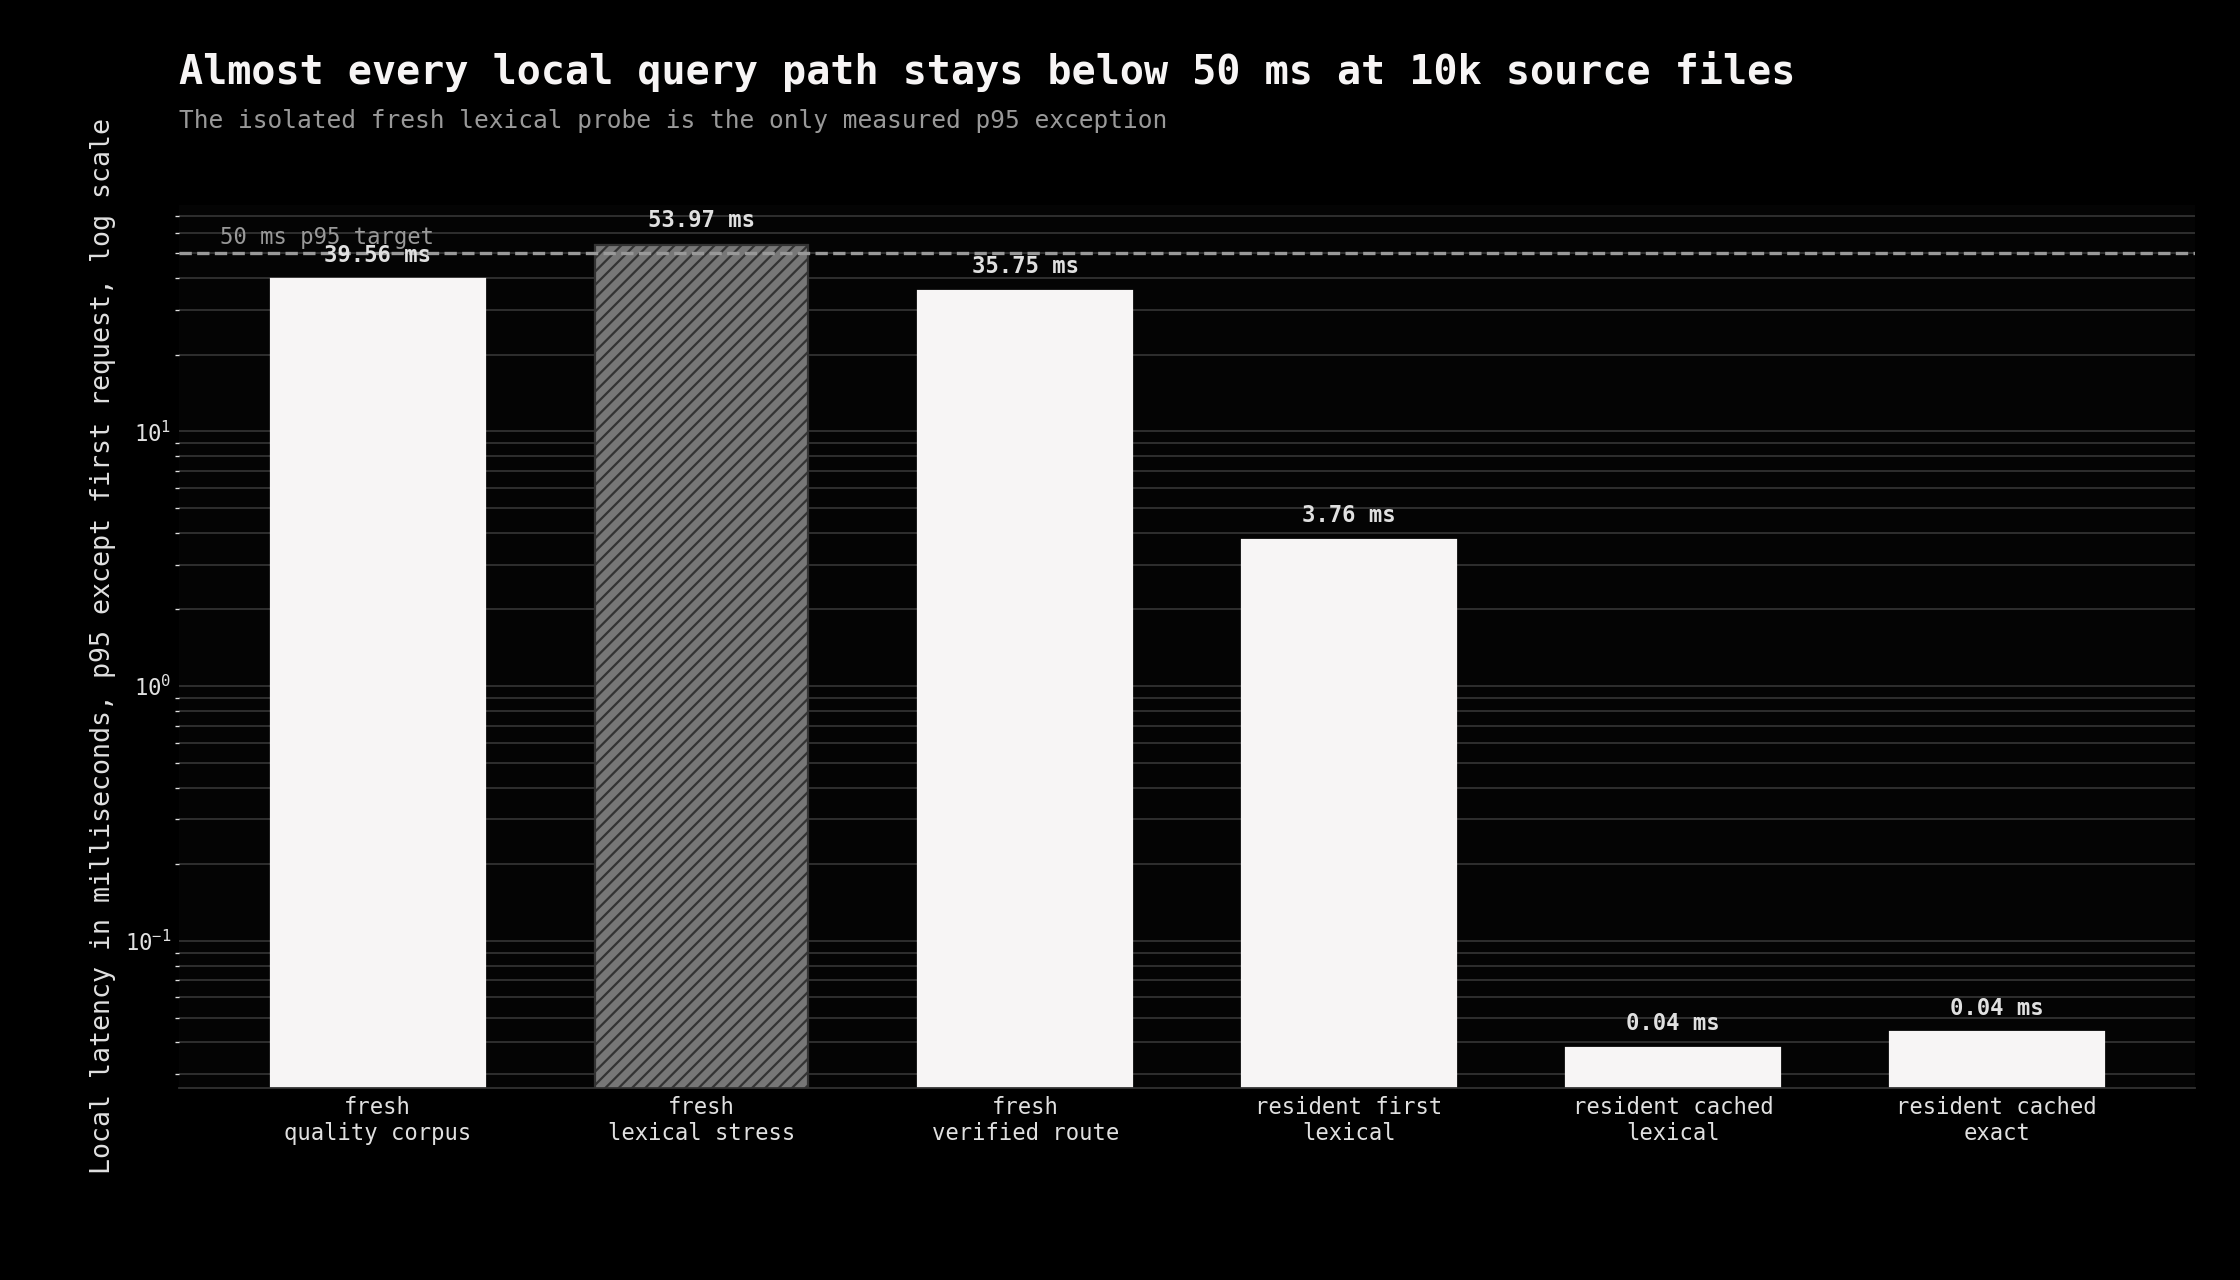
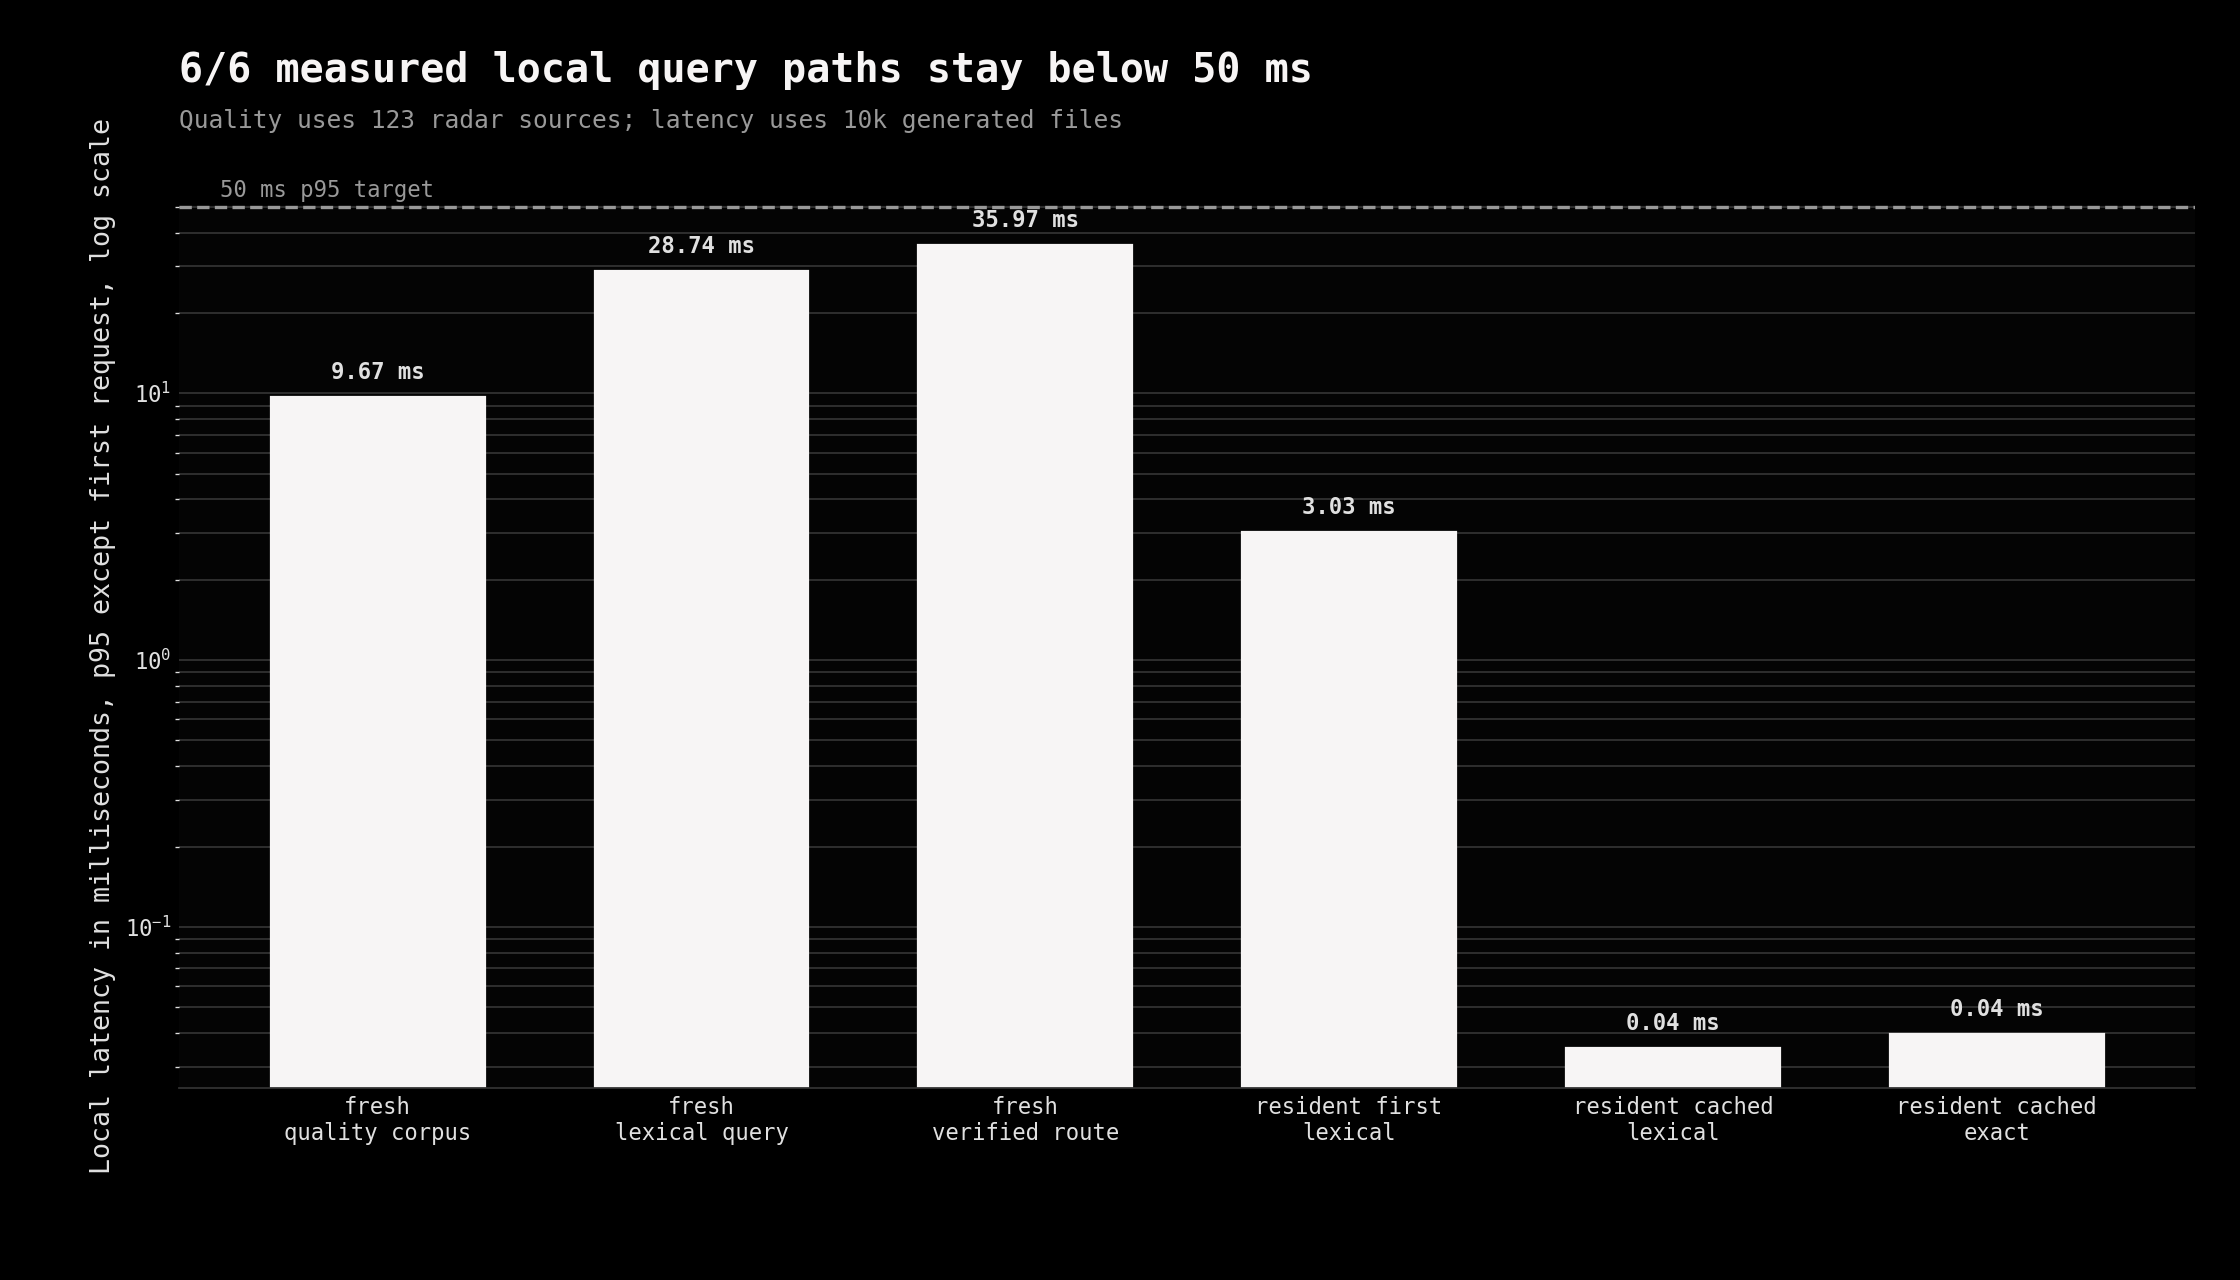
docs(blog): refresh radar benchmark results

diff --git a/content/blogs/how-i-hacked-my-token-cost-burnt.md b/content/blogs/how-i-hacked-my-token-cost-burnt.md
@@ -152,11 +152,11 @@ Then I removed the model entirely and asked a stricter question: did the router 
   <tbody>
     <tr><td>Previous Radar baseline</td><td>2/40</td><td>2/40</td><td>4,042</td></tr>
     <tr><td>TokenSave context command</td><td>2/40</td><td>5/40</td><td>8,421</td></tr>
-    <tr><td>Current Radar router</td><td>37/40</td><td>40/40</td><td>835</td></tr>
+    <tr><td>Current Radar router</td><td>37/40</td><td>40/40</td><td>847</td></tr>
   </tbody>
 </table>
 
-To be clear, this is a narrow source-routing comparison. Radar does not replace TokenSave's broader editing and repository-intelligence features. On this 10,000-file corpus, it returned the expected anchor for all 40 queries with about one fifth of its old response volume.
+To be clear, this is a narrow source-routing comparison. Radar does not replace TokenSave's broader editing and repository-intelligence features. On Radar's own 123-source quality corpus, it returned the expected anchor for all 40 questions with about one fifth of its old response volume.
 
 I also timed the binary itself, because saving tokens with a slow lookup would be a pretty bad joke:
 
@@ -165,16 +165,17 @@ I also timed the binary itself, because saving tokens with a slow lookup would b
     <tr><th>Local path</th><th>p95 latency</th><th>Model tokens</th></tr>
   </thead>
   <tbody>
-    <tr><td>Fresh 40-query quality corpus</td><td>39.56 ms</td><td>0</td></tr>
-    <tr><td>Fresh verified route</td><td>35.75 ms</td><td>0</td></tr>
-    <tr><td>First resident lexical query</td><td>3.76 ms</td><td>0</td></tr>
-    <tr><td>Repeated resident query or route</td><td>0.038 to 0.044 ms</td><td>0</td></tr>
+    <tr><td>Fresh quality query, 123 sources</td><td>9.67 ms</td><td>0</td></tr>
+    <tr><td>Fresh lexical query, 10,000 sources</td><td>28.74 ms</td><td>0</td></tr>
+    <tr><td>Fresh verified route, 10,000 sources</td><td>35.97 ms</td><td>0</td></tr>
+    <tr><td>First resident lexical query</td><td>3.03 ms</td><td>0</td></tr>
+    <tr><td>Repeated resident query or route</td><td>0.035 to 0.040 ms</td><td>0</td></tr>
   </tbody>
 </table>
 
-![Radar local query latency benchmark](/assets/how-i-hacked-my-token-cost-burnt/radar-query-latency.png?v=8e19e409)
+![Radar local query latency benchmark](/assets/how-i-hacked-my-token-cost-burnt/radar-query-latency.png?v=c1063944)
 
-One isolated cold lexical stress probe still reaches `53.97 ms`. That one is not hidden, even if it makes the chart less pretty. The full quality corpus and verified routes stay below `50 ms`, while resident requests are way below it.
+All six measured paths are now below `50 ms`. The silly edge case was an unknown query against a root map with 500 child packages: returning every child made a `9,102` byte hint. Radar now shows six useful names and the omitted count. Same result, `244` bytes, and the 40-query quality gate still passes.
 
 No spreadsheet magic here. Python generates these charts from committed reports. [`BENCHMARKS.md`](https://github.com/Sanix-Darker/radar/blob/main/BENCHMARKS.md) has the prompts, repetitions, expected anchors, commands, cost math and raw paths.
 
